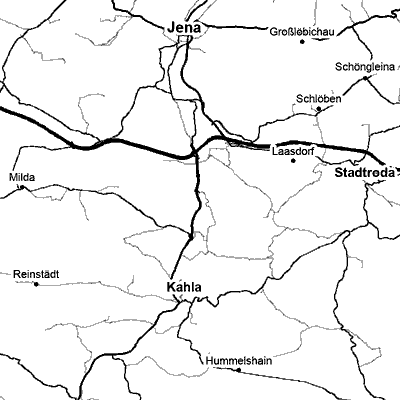
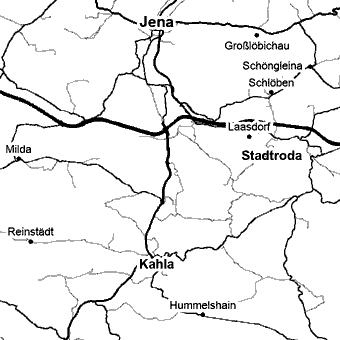
Sprit-Karte in Displaygröße (340 px), Ortsnamen weichen Tankstellen aus, Nordpfeil links

diff --git a/scripts/make_basemap.py b/scripts/make_basemap.py
@@ -109,6 +109,14 @@ def main() -> None:
 
     taken, villages = [], 0
     c = size / 2
+    # Tankstellen liegen fest: ihre Marker (aus dem letzten Lauf) nicht mit Namen überdecken
+    latest = ROOT / "data" / "latest.json"
+    if latest.exists():
+        karte = json.loads(latest.read_text()).get("karte", {})
+        k = MAP_SIZE / karte.get("size", MAP_SIZE) * SS
+        r = 13 * SS
+        for p in karte.get("near", []) + karte.get("others", []):
+            taken.append((p["x"] * k - r, p["y"] * k - r, p["x"] * k + r, p["y"] * k + r))
     for p in sorted(places, key=prio):
         name, kind = p["tags"]["name"], p["tags"]["place"]
         important = name in ALWAYS

diff --git a/scripts/karte_proj.py b/scripts/karte_proj.py
@@ -8,7 +8,7 @@ import math
 
 CENTER_LAT = 50.85
 CENTER_LNG = 11.60
-MAP_SIZE = 400        # Kantenlänge der Karte in Pixel
+MAP_SIZE = 340        # Kantenlänge in Pixel = tatsächliche Größe auf dem Display (sonst skaliert TRMNL unscharf)
 EXTENT_KM = 10.8      # Radius, der sicher auf die Karte passt (Tankerkönig-Umkreis 10 km)
 TILE_ZOOM = 11        # CARTO-Kachelzoom (Beschriftung in passender Größe)
 TILE_PX = 512         # @2x-Kacheln
